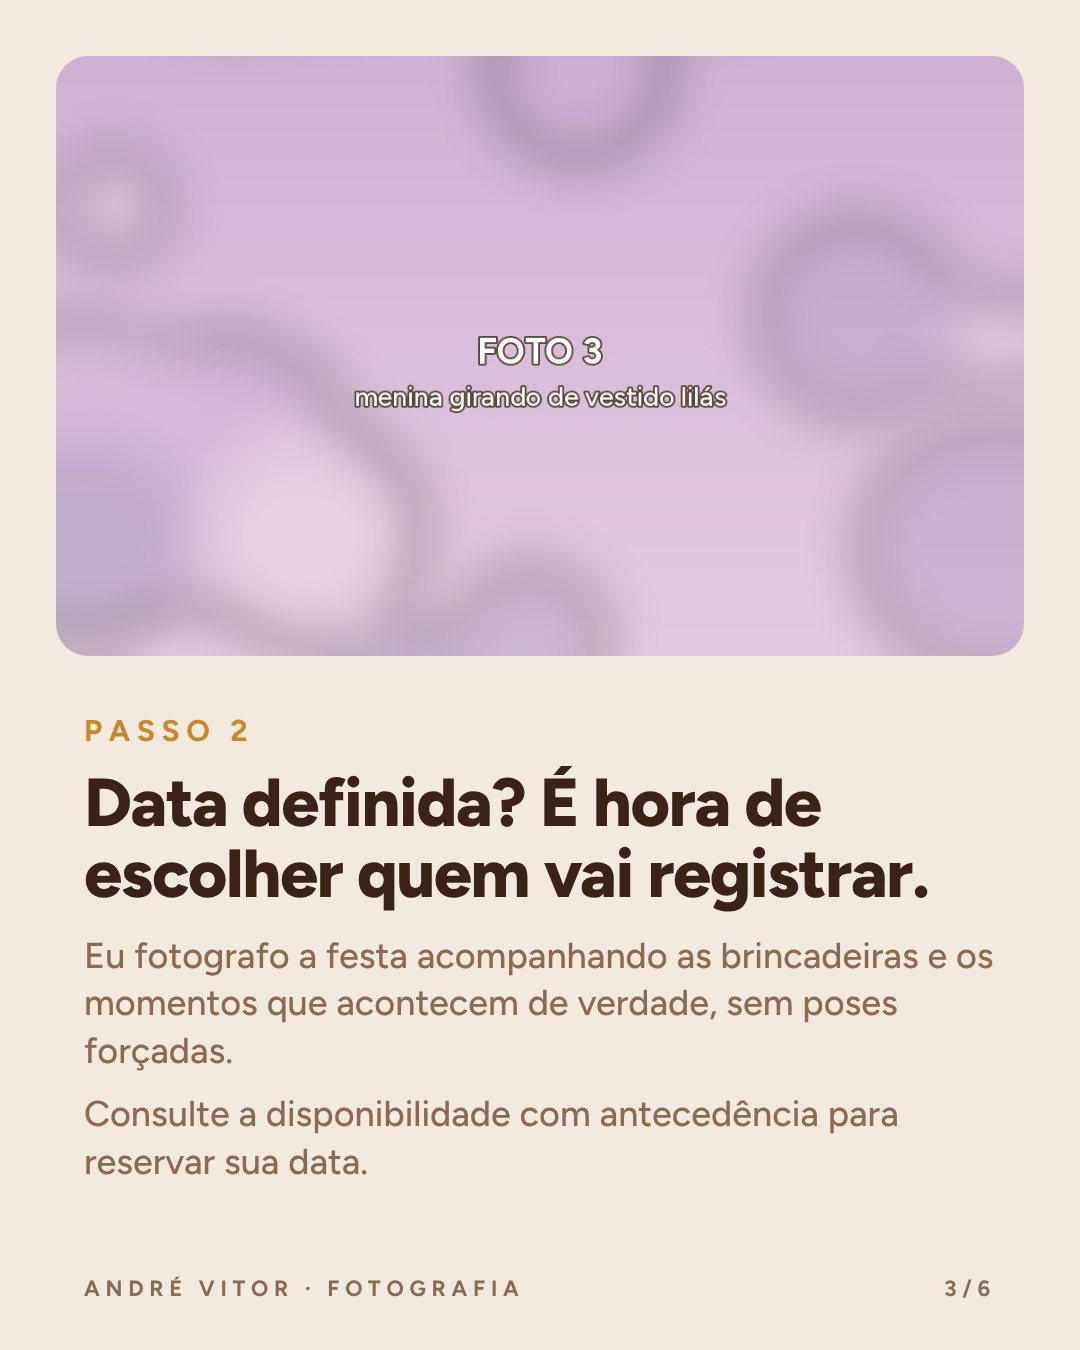
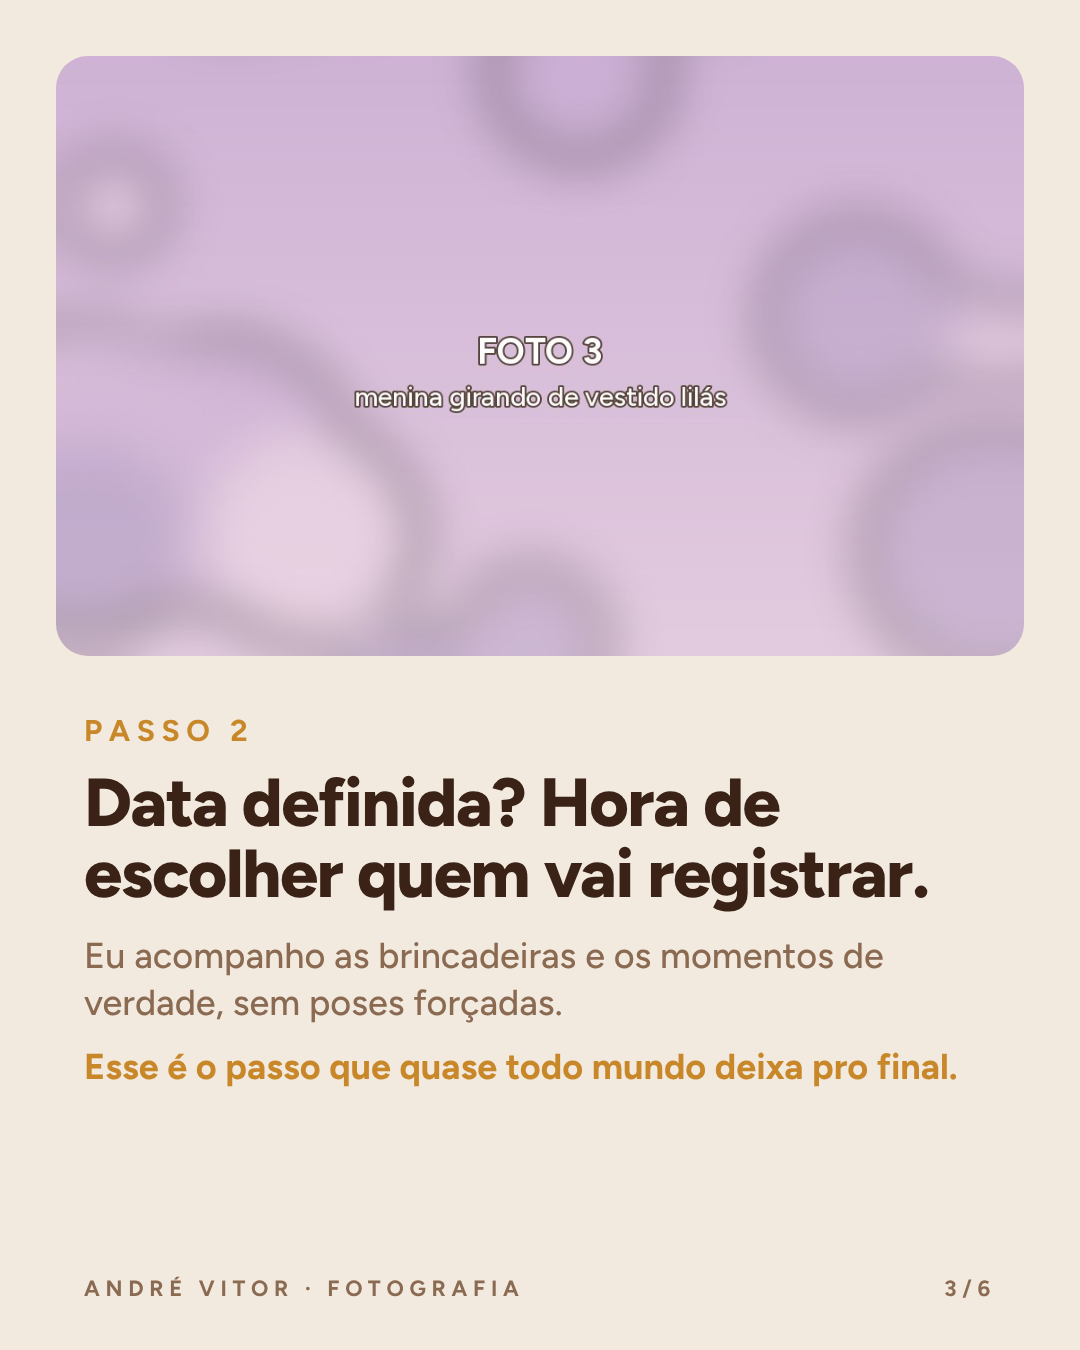
Carrossel: slide 3 mais enxuto e cumpre a promessa da capa
Claude-Session: https://claude.ai/code/session_01V8X75n2knntE3NdxPFh2K8

Changed region(s): [[0.0611, 0.6844, 0.9167, 0.8711], [0.5194, 0.56, 0.7639, 0.6222]]

diff --git a/anuncio-festa/slides.html b/anuncio-festa/slides.html
@@ -43,6 +43,7 @@
   .titulo{ font-weight:800; font-size:84px; line-height:1.02; letter-spacing:-.02em; }
   .sub{ font-weight:500; font-size:36px; line-height:1.32; color:var(--cacau); margin-top:22px; }
   .sub + .sub{ margin-top:16px; }
+  .sub.alerta{ font-weight:700; color:var(--ambar); }
   /* slides com mais texto: foto menor */
   .longo .foto{ height:600px; }
   .longo .texto{ top:712px; }
@@ -128,9 +129,9 @@
   <div class="foto"><img src="fotos/foto3.jpg" style="--pos:50% 35%" alt=""></div>
   <div class="texto">
     <p class="passo">Passo 2</p>
-    <h2 class="titulo">Data definida? É hora de escolher quem vai registrar.</h2>
-    <p class="sub">Eu fotografo a festa acompanhando as brincadeiras e os momentos que acontecem de verdade, sem poses forçadas.</p>
-    <p class="sub">Consulte a disponibilidade com antecedência para reservar sua data.</p>
+    <h2 class="titulo">Data definida? Hora de escolher quem vai registrar.</h2>
+    <p class="sub">Eu acompanho as brincadeiras e os momentos de verdade, sem poses forçadas.</p>
+    <p class="sub alerta">Esse é o passo que quase todo mundo deixa pro final.</p>
   </div>
   <div class="rodape"><span>André Vitor · Fotografia</span><span>3/6</span></div>
 </section>
